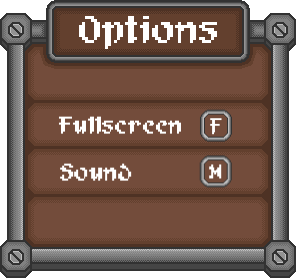
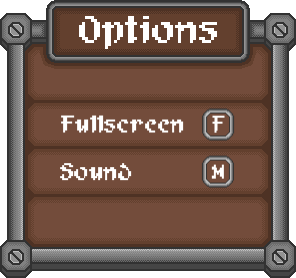
Option Menu fix

diff --git a/src/scenes/windows/settings_window.cpp b/src/scenes/windows/settings_window.cpp
@@ -1,13 +1,17 @@
 #include "settings_window.h"
 
 scenes::windows::SettingsWindow::SettingsWindow()
-	: SettingTexture(LoadTexture("assets/graphics/ui/Options/options_menu_sheet.png"))
 {
 }
 
 scenes::windows::SettingsWindow::~SettingsWindow()
 {
-	UnloadTexture(SettingTexture);
+	UnloadTexture(OptionTexture);
+	UnloadTexture(FullscreenTexture);
+	UnloadTexture(SoundTexture);
+	UnloadTexture(KeyTexture);
+	UnloadTexture(F_Texture);
+	UnloadTexture(M_Texture);
 }
 
 void scenes::windows::SettingsWindow::Update()
@@ -19,5 +23,10 @@ void scenes::windows::SettingsWindow::Update()
 
 void scenes::windows::SettingsWindow::Draw()
 {
-	DrawTexture(SettingTexture, 172, 41, WHITE);
+	DrawTexture(OptionTexture, 172, 41, WHITE);
+	DrawTexture(FullscreenTexture, 234, 150, WHITE);
+	DrawTexture(SoundTexture, 234, 204, WHITE);
+	DrawTexture(KeyTexture, 375, 196, WHITE);
+	DrawTexture(F_Texture, 385, 158, WHITE);
+	DrawTexture(M_Texture, 385, 203, WHITE);
 }

diff --git a/src/scenes/windows/settings_window.h b/src/scenes/windows/settings_window.h
@@ -14,6 +14,11 @@ namespace scenes::windows
 		void Update() override;
 		void Draw() override;
 
-		Texture2D SettingTexture;
+		Texture2D OptionTexture = LoadTexture("assets/graphics/ui/Options/options_background_sheet.png");
+		Texture2D FullscreenTexture = LoadTexture("assets/graphics/ui/Options/fullscreen.png");;
+		Texture2D SoundTexture = LoadTexture("assets/graphics/ui/Options/sound_text_sheet.png");;
+		Texture2D KeyTexture = LoadTexture("assets/graphics/ui/Options/key_sheet.png");;
+		Texture2D F_Texture = LoadTexture("assets/graphics/ui/Options/f_texture.png");;
+		Texture2D M_Texture = LoadTexture("assets/graphics/ui/Options/m_texture.png");;
 	};
 }
